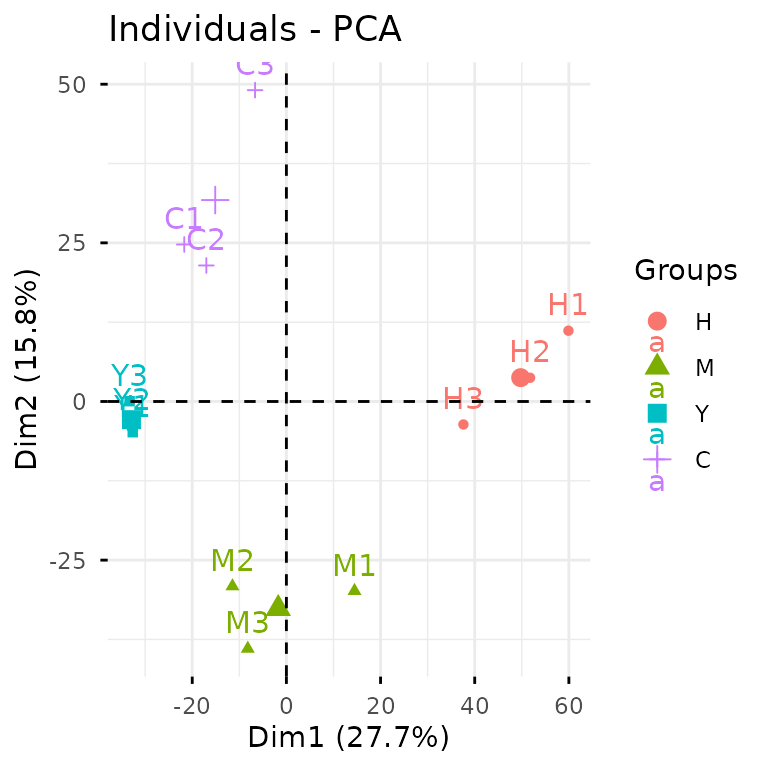
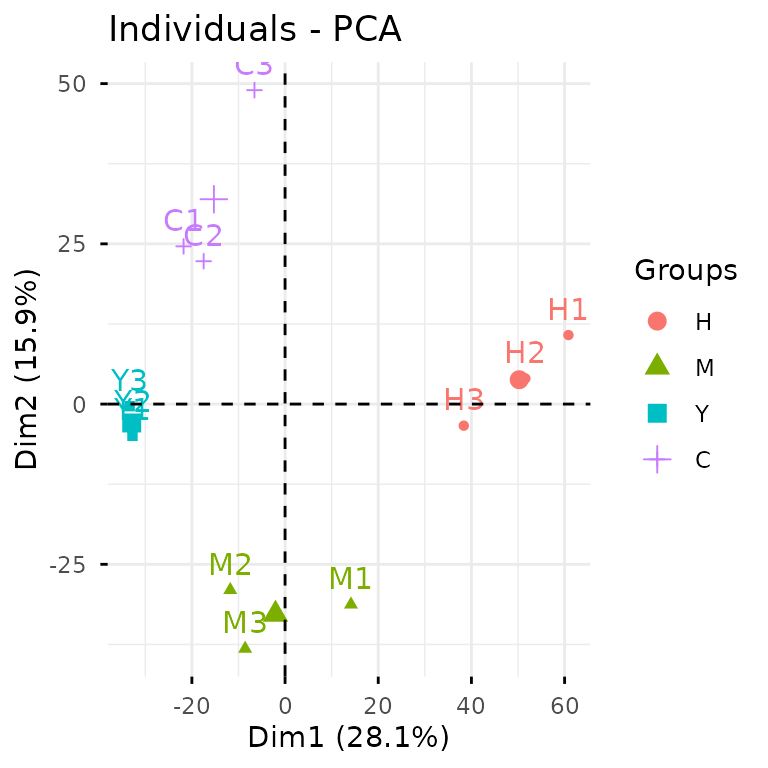
Deploying to gh-pages from @ glycoverse/glyvis@571da48f42b370f1879a0d81029ac2d63f64955e 🚀

diff --git a/dev/articles/glyvis.html b/dev/articles/glyvis.html
@@ -7,8 +7,8 @@
 <meta name="viewport" content="width=device-width, initial-scale=1, shrink-to-fit=no">
 <title>Get Started with glyvis • glyvis</title>
 <script src="../deps/jquery-3.6.0/jquery-3.6.0.min.js"></script><meta name="viewport" content="width=device-width, initial-scale=1, shrink-to-fit=no">
-<link href="../deps/bootstrap-5.3.1/bootstrap.min.css" rel="stylesheet">
-<script src="../deps/bootstrap-5.3.1/bootstrap.bundle.min.js"></script><link href="../deps/font-awesome-6.5.2/css/all.min.css" rel="stylesheet">
+<link href="../deps/bootstrap-5.3.8/bootstrap.min.css" rel="stylesheet">
+<script src="../deps/bootstrap-5.3.8/bootstrap.bundle.min.js"></script><link href="../deps/font-awesome-6.5.2/css/all.min.css" rel="stylesheet">
 <link href="../deps/font-awesome-6.5.2/css/v4-shims.min.css" rel="stylesheet">
 <script src="../deps/headroom-0.11.0/headroom.min.js"></script><script src="../deps/headroom-0.11.0/jQuery.headroom.min.js"></script><script src="../deps/bootstrap-toc-1.0.1/bootstrap-toc.min.js"></script><script src="../deps/clipboard.js-2.0.11/clipboard.min.js"></script><script src="../deps/search-1.0.0/autocomplete.jquery.min.js"></script><script src="../deps/search-1.0.0/fuse.min.js"></script><script src="../deps/search-1.0.0/mark.min.js"></script><!-- pkgdown --><script src="../pkgdown.js"></script><meta property="og:title" content="Get Started with glyvis">
 <meta name="robots" content="noindex">
@@ -94,21 +94,20 @@ streamlined preprocessing.</p>
 <span><span class="co">#&gt; </span></span>
 <span><span class="co">#&gt; ── <span style="font-weight: bold;">Normalizing data</span> ──</span></span>
 <span><span class="co">#&gt; </span></span>
-<span><span class="co">#&gt; <span style="color: #00BBBB;">ℹ</span> No QC samples found. Using default normalization method based on experiment type.</span></span>
-<span><span class="co">#&gt; <span style="color: #00BBBB;">ℹ</span> Experiment type is <span style="color: #0000BB;">"glycoproteomics"</span>. Using `normalize_median()`.</span></span>
+<span><span class="co">#&gt; <span style="color: #00BBBB;">ℹ</span> Normalization method: `normalize_median()`</span></span>
+<span><span class="co">#&gt; <span style="color: #00BBBB;">ℹ</span> Reason: default for <span style="color: #0000BB;">"glycoproteomics"</span>.</span></span>
 <span><span class="co">#&gt; <span style="color: #00BB00;">✔</span> Normalization completed.</span></span>
 <span><span class="co">#&gt; </span></span>
 <span><span class="co">#&gt; ── <span style="font-weight: bold;">Removing variables with too many missing values</span> ──</span></span>
 <span><span class="co">#&gt; </span></span>
-<span><span class="co">#&gt; <span style="color: #00BBBB;">ℹ</span> No QC samples found. Using all samples.</span></span>
 <span><span class="co">#&gt; <span style="color: #00BBBB;">ℹ</span> Applying preset <span style="color: #0000BB;">"discovery"</span>...</span></span>
 <span><span class="co">#&gt; <span style="color: #00BBBB;">ℹ</span> Total removed: <span style="color: #0000BB;">24</span> (<span style="color: #0000BB;">0.56</span>%) variables.</span></span>
 <span><span class="co">#&gt; <span style="color: #00BB00;">✔</span> Variable removal completed.</span></span>
 <span><span class="co">#&gt; </span></span>
 <span><span class="co">#&gt; ── <span style="font-weight: bold;">Imputing missing values</span> ──</span></span>
 <span><span class="co">#&gt; </span></span>
-<span><span class="co">#&gt; <span style="color: #00BBBB;">ℹ</span> No QC samples found. Using default imputation method based on sample size.</span></span>
-<span><span class="co">#&gt; <span style="color: #00BBBB;">ℹ</span> Sample size &lt;= 30, using `impute_sample_min()`.</span></span>
+<span><span class="co">#&gt; <span style="color: #00BBBB;">ℹ</span> Imputation method: `impute_min_prob()`</span></span>
+<span><span class="co">#&gt; <span style="color: #00BBBB;">ℹ</span> Reason: default for <span style="color: #0000BB;">"glycoproteomics"</span> with n_samples &lt; 30.</span></span>
 <span><span class="co">#&gt; <span style="color: #00BB00;">✔</span> Imputation completed.</span></span>
 <span><span class="co">#&gt; </span></span>
 <span><span class="co">#&gt; ── <span style="font-weight: bold;">Aggregating data</span> ──</span></span>
@@ -118,13 +117,13 @@ streamlined preprocessing.</p>
 <span><span class="co">#&gt; </span></span>
 <span><span class="co">#&gt; ── <span style="font-weight: bold;">Normalizing data again</span> ──</span></span>
 <span><span class="co">#&gt; </span></span>
-<span><span class="co">#&gt; <span style="color: #00BBBB;">ℹ</span> No QC samples found. Using default normalization method based on experiment type.</span></span>
-<span><span class="co">#&gt; <span style="color: #00BBBB;">ℹ</span> Experiment type is <span style="color: #0000BB;">"glycoproteomics"</span>. Using `normalize_median()`.</span></span>
+<span><span class="co">#&gt; <span style="color: #00BBBB;">ℹ</span> Normalization method: `normalize_median()`</span></span>
+<span><span class="co">#&gt; <span style="color: #00BBBB;">ℹ</span> Reason: default for <span style="color: #0000BB;">"glycoproteomics"</span>.</span></span>
 <span><span class="co">#&gt; <span style="color: #00BB00;">✔</span> Normalization completed.</span></span>
 <span><span class="co">#&gt; </span></span>
 <span><span class="co">#&gt; ── <span style="font-weight: bold;">Correcting batch effects</span> ──</span></span>
 <span><span class="co">#&gt; </span></span>
-<span><span class="co">#&gt; <span style="color: #00BBBB;">ℹ</span> Batch column  not found in sample_info. Skipping batch correction.</span></span>
+<span><span class="co">#&gt; <span style="color: #00BBBB;">ℹ</span> Batch column <span style="color: #00BB00;">batch</span> not found in sample_info. Skipping batch correction.</span></span>
 <span><span class="co">#&gt; <span style="color: #00BB00;">✔</span> Batch correction completed.</span></span></code></pre></div>
 <div class="section level2">
 <h2 id="the-dual-nature-of-glyvis">The Dual Nature of <code>glyvis</code><a class="anchor" aria-label="anchor" href="#the-dual-nature-of-glyvis"></a>
@@ -211,7 +210,7 @@ generate hypotheses at the speed of thought.</p>
 </div>
 
 <div class="pkgdown-footer-right">
-  <p>Site built with <a href="https://pkgdown.r-lib.org/" class="external-link">pkgdown</a> 2.2.0.</p>
+  <p>Site built with <a href="https://pkgdown.r-lib.org/" class="external-link">pkgdown</a> 2.2.1.</p>
 </div>
 
     </footer>

diff --git a/dev/index.html b/dev/index.html
@@ -7,8 +7,8 @@
 <meta name="viewport" content="width=device-width, initial-scale=1, shrink-to-fit=no">
 <title>Fast Visualization For Glycoverse • glyvis</title>
 <script src="deps/jquery-3.6.0/jquery-3.6.0.min.js"></script><meta name="viewport" content="width=device-width, initial-scale=1, shrink-to-fit=no">
-<link href="deps/bootstrap-5.3.1/bootstrap.min.css" rel="stylesheet">
-<script src="deps/bootstrap-5.3.1/bootstrap.bundle.min.js"></script><link href="deps/font-awesome-6.5.2/css/all.min.css" rel="stylesheet">
+<link href="deps/bootstrap-5.3.8/bootstrap.min.css" rel="stylesheet">
+<script src="deps/bootstrap-5.3.8/bootstrap.bundle.min.js"></script><link href="deps/font-awesome-6.5.2/css/all.min.css" rel="stylesheet">
 <link href="deps/font-awesome-6.5.2/css/v4-shims.min.css" rel="stylesheet">
 <script src="deps/headroom-0.11.0/headroom.min.js"></script><script src="deps/headroom-0.11.0/jQuery.headroom.min.js"></script><script src="deps/bootstrap-toc-1.0.1/bootstrap-toc.min.js"></script><script src="deps/clipboard.js-2.0.11/clipboard.min.js"></script><script src="deps/search-1.0.0/autocomplete.jquery.min.js"></script><script src="deps/search-1.0.0/fuse.min.js"></script><script src="deps/search-1.0.0/mark.min.js"></script><!-- pkgdown --><script src="pkgdown.js"></script><meta property="og:title" content="Fast Visualization For Glycoverse">
 <meta name="description" content="Provides a unified interface for visualizing glycomics data within the glycoverse ecosystem. Implements autoplot() methods for various data structures including statistical results from glystats, experimental data from glyexp, and glycan structures from glyrepr. Designed for rapid data exploration and quality assessment rather than publication-quality figure generation.">
@@ -206,7 +206,7 @@
 </div>
 
 <div class="pkgdown-footer-right">
-  <p>Site built with <a href="https://pkgdown.r-lib.org/" class="external-link">pkgdown</a> 2.2.0.</p>
+  <p>Site built with <a href="https://pkgdown.r-lib.org/" class="external-link">pkgdown</a> 2.2.1.</p>
 </div>
 
     </footer>

diff --git a/dev/CODE_OF_CONDUCT.html b/dev/CODE_OF_CONDUCT.html
@@ -1,5 +1,5 @@
 <!DOCTYPE html>
-<!-- Generated by pkgdown: do not edit by hand --><html lang="en"><head><meta http-equiv="Content-Type" content="text/html; charset=UTF-8"><meta charset="utf-8"><meta http-equiv="X-UA-Compatible" content="IE=edge"><meta name="viewport" content="width=device-width, initial-scale=1, shrink-to-fit=no"><title>Contributor Covenant Code of Conduct • glyvis</title><script src="deps/jquery-3.6.0/jquery-3.6.0.min.js"></script><meta name="viewport" content="width=device-width, initial-scale=1, shrink-to-fit=no"><link href="deps/bootstrap-5.3.1/bootstrap.min.css" rel="stylesheet"><script src="deps/bootstrap-5.3.1/bootstrap.bundle.min.js"></script><link href="deps/font-awesome-6.5.2/css/all.min.css" rel="stylesheet"><link href="deps/font-awesome-6.5.2/css/v4-shims.min.css" rel="stylesheet"><script src="deps/headroom-0.11.0/headroom.min.js"></script><script src="deps/headroom-0.11.0/jQuery.headroom.min.js"></script><script src="deps/bootstrap-toc-1.0.1/bootstrap-toc.min.js"></script><script src="deps/clipboard.js-2.0.11/clipboard.min.js"></script><script src="deps/search-1.0.0/autocomplete.jquery.min.js"></script><script src="deps/search-1.0.0/fuse.min.js"></script><script src="deps/search-1.0.0/mark.min.js"></script><!-- pkgdown --><script src="pkgdown.js"></script><meta property="og:title" content="Contributor Covenant Code of Conduct"><meta property="og:image" content="https://glycoverse.github.io/glyvis/logo.png"><meta name="robots" content="noindex"></head><body>
+<!-- Generated by pkgdown: do not edit by hand --><html lang="en"><head><meta http-equiv="Content-Type" content="text/html; charset=UTF-8"><meta charset="utf-8"><meta http-equiv="X-UA-Compatible" content="IE=edge"><meta name="viewport" content="width=device-width, initial-scale=1, shrink-to-fit=no"><title>Contributor Covenant Code of Conduct • glyvis</title><script src="deps/jquery-3.6.0/jquery-3.6.0.min.js"></script><meta name="viewport" content="width=device-width, initial-scale=1, shrink-to-fit=no"><link href="deps/bootstrap-5.3.8/bootstrap.min.css" rel="stylesheet"><script src="deps/bootstrap-5.3.8/bootstrap.bundle.min.js"></script><link href="deps/font-awesome-6.5.2/css/all.min.css" rel="stylesheet"><link href="deps/font-awesome-6.5.2/css/v4-shims.min.css" rel="stylesheet"><script src="deps/headroom-0.11.0/headroom.min.js"></script><script src="deps/headroom-0.11.0/jQuery.headroom.min.js"></script><script src="deps/bootstrap-toc-1.0.1/bootstrap-toc.min.js"></script><script src="deps/clipboard.js-2.0.11/clipboard.min.js"></script><script src="deps/search-1.0.0/autocomplete.jquery.min.js"></script><script src="deps/search-1.0.0/fuse.min.js"></script><script src="deps/search-1.0.0/mark.min.js"></script><!-- pkgdown --><script src="pkgdown.js"></script><meta property="og:title" content="Contributor Covenant Code of Conduct"><meta property="og:image" content="https://glycoverse.github.io/glyvis/logo.png"><meta name="robots" content="noindex"></head><body>
     <a href="#main" class="visually-hidden-focusable">Skip to contents</a>
 
 
@@ -108,7 +108,7 @@
 </div>
 
 <div class="pkgdown-footer-right">
-  <p>Site built with <a href="https://pkgdown.r-lib.org/" class="external-link">pkgdown</a> 2.2.0.</p>
+  <p>Site built with <a href="https://pkgdown.r-lib.org/" class="external-link">pkgdown</a> 2.2.1.</p>
 </div>
 
     </footer></div>

diff --git a/dev/CONTRIBUTING.html b/dev/CONTRIBUTING.html
@@ -1,5 +1,5 @@
 <!DOCTYPE html>
-<!-- Generated by pkgdown: do not edit by hand --><html lang="en"><head><meta http-equiv="Content-Type" content="text/html; charset=UTF-8"><meta charset="utf-8"><meta http-equiv="X-UA-Compatible" content="IE=edge"><meta name="viewport" content="width=device-width, initial-scale=1, shrink-to-fit=no"><title>Contributing to glyvis • glyvis</title><script src="deps/jquery-3.6.0/jquery-3.6.0.min.js"></script><meta name="viewport" content="width=device-width, initial-scale=1, shrink-to-fit=no"><link href="deps/bootstrap-5.3.1/bootstrap.min.css" rel="stylesheet"><script src="deps/bootstrap-5.3.1/bootstrap.bundle.min.js"></script><link href="deps/font-awesome-6.5.2/css/all.min.css" rel="stylesheet"><link href="deps/font-awesome-6.5.2/css/v4-shims.min.css" rel="stylesheet"><script src="deps/headroom-0.11.0/headroom.min.js"></script><script src="deps/headroom-0.11.0/jQuery.headroom.min.js"></script><script src="deps/bootstrap-toc-1.0.1/bootstrap-toc.min.js"></script><script src="deps/clipboard.js-2.0.11/clipboard.min.js"></script><script src="deps/search-1.0.0/autocomplete.jquery.min.js"></script><script src="deps/search-1.0.0/fuse.min.js"></script><script src="deps/search-1.0.0/mark.min.js"></script><!-- pkgdown --><script src="pkgdown.js"></script><meta property="og:title" content="Contributing to glyvis"><meta property="og:image" content="https://glycoverse.github.io/glyvis/logo.png"><meta name="robots" content="noindex"></head><body>
+<!-- Generated by pkgdown: do not edit by hand --><html lang="en"><head><meta http-equiv="Content-Type" content="text/html; charset=UTF-8"><meta charset="utf-8"><meta http-equiv="X-UA-Compatible" content="IE=edge"><meta name="viewport" content="width=device-width, initial-scale=1, shrink-to-fit=no"><title>Contributing to glyvis • glyvis</title><script src="deps/jquery-3.6.0/jquery-3.6.0.min.js"></script><meta name="viewport" content="width=device-width, initial-scale=1, shrink-to-fit=no"><link href="deps/bootstrap-5.3.8/bootstrap.min.css" rel="stylesheet"><script src="deps/bootstrap-5.3.8/bootstrap.bundle.min.js"></script><link href="deps/font-awesome-6.5.2/css/all.min.css" rel="stylesheet"><link href="deps/font-awesome-6.5.2/css/v4-shims.min.css" rel="stylesheet"><script src="deps/headroom-0.11.0/headroom.min.js"></script><script src="deps/headroom-0.11.0/jQuery.headroom.min.js"></script><script src="deps/bootstrap-toc-1.0.1/bootstrap-toc.min.js"></script><script src="deps/clipboard.js-2.0.11/clipboard.min.js"></script><script src="deps/search-1.0.0/autocomplete.jquery.min.js"></script><script src="deps/search-1.0.0/fuse.min.js"></script><script src="deps/search-1.0.0/mark.min.js"></script><!-- pkgdown --><script src="pkgdown.js"></script><meta property="og:title" content="Contributing to glyvis"><meta property="og:image" content="https://glycoverse.github.io/glyvis/logo.png"><meta name="robots" content="noindex"></head><body>
     <a href="#main" class="visually-hidden-focusable">Skip to contents</a>
 
 
@@ -71,7 +71,7 @@
 </div>
 
 <div class="pkgdown-footer-right">
-  <p>Site built with <a href="https://pkgdown.r-lib.org/" class="external-link">pkgdown</a> 2.2.0.</p>
+  <p>Site built with <a href="https://pkgdown.r-lib.org/" class="external-link">pkgdown</a> 2.2.1.</p>
 </div>
 
     </footer></div>

diff --git a/dev/LICENSE-text.html b/dev/LICENSE-text.html
@@ -1,5 +1,5 @@
 <!DOCTYPE html>
-<!-- Generated by pkgdown: do not edit by hand --><html lang="en"><head><meta http-equiv="Content-Type" content="text/html; charset=UTF-8"><meta charset="utf-8"><meta http-equiv="X-UA-Compatible" content="IE=edge"><meta name="viewport" content="width=device-width, initial-scale=1, shrink-to-fit=no"><title>License • glyvis</title><script src="deps/jquery-3.6.0/jquery-3.6.0.min.js"></script><meta name="viewport" content="width=device-width, initial-scale=1, shrink-to-fit=no"><link href="deps/bootstrap-5.3.1/bootstrap.min.css" rel="stylesheet"><script src="deps/bootstrap-5.3.1/bootstrap.bundle.min.js"></script><link href="deps/font-awesome-6.5.2/css/all.min.css" rel="stylesheet"><link href="deps/font-awesome-6.5.2/css/v4-shims.min.css" rel="stylesheet"><script src="deps/headroom-0.11.0/headroom.min.js"></script><script src="deps/headroom-0.11.0/jQuery.headroom.min.js"></script><script src="deps/bootstrap-toc-1.0.1/bootstrap-toc.min.js"></script><script src="deps/clipboard.js-2.0.11/clipboard.min.js"></script><script src="deps/search-1.0.0/autocomplete.jquery.min.js"></script><script src="deps/search-1.0.0/fuse.min.js"></script><script src="deps/search-1.0.0/mark.min.js"></script><!-- pkgdown --><script src="pkgdown.js"></script><meta property="og:title" content="License"><meta property="og:image" content="https://glycoverse.github.io/glyvis/logo.png"><meta name="robots" content="noindex"></head><body>
+<!-- Generated by pkgdown: do not edit by hand --><html lang="en"><head><meta http-equiv="Content-Type" content="text/html; charset=UTF-8"><meta charset="utf-8"><meta http-equiv="X-UA-Compatible" content="IE=edge"><meta name="viewport" content="width=device-width, initial-scale=1, shrink-to-fit=no"><title>License • glyvis</title><script src="deps/jquery-3.6.0/jquery-3.6.0.min.js"></script><meta name="viewport" content="width=device-width, initial-scale=1, shrink-to-fit=no"><link href="deps/bootstrap-5.3.8/bootstrap.min.css" rel="stylesheet"><script src="deps/bootstrap-5.3.8/bootstrap.bundle.min.js"></script><link href="deps/font-awesome-6.5.2/css/all.min.css" rel="stylesheet"><link href="deps/font-awesome-6.5.2/css/v4-shims.min.css" rel="stylesheet"><script src="deps/headroom-0.11.0/headroom.min.js"></script><script src="deps/headroom-0.11.0/jQuery.headroom.min.js"></script><script src="deps/bootstrap-toc-1.0.1/bootstrap-toc.min.js"></script><script src="deps/clipboard.js-2.0.11/clipboard.min.js"></script><script src="deps/search-1.0.0/autocomplete.jquery.min.js"></script><script src="deps/search-1.0.0/fuse.min.js"></script><script src="deps/search-1.0.0/mark.min.js"></script><!-- pkgdown --><script src="pkgdown.js"></script><meta property="og:title" content="License"><meta property="og:image" content="https://glycoverse.github.io/glyvis/logo.png"><meta name="robots" content="noindex"></head><body>
     <a href="#main" class="visually-hidden-focusable">Skip to contents</a>
 
 
@@ -43,7 +43,7 @@ COPYRIGHT HOLDER: glyvis authors
 </div>
 
 <div class="pkgdown-footer-right">
-  <p>Site built with <a href="https://pkgdown.r-lib.org/" class="external-link">pkgdown</a> 2.2.0.</p>
+  <p>Site built with <a href="https://pkgdown.r-lib.org/" class="external-link">pkgdown</a> 2.2.1.</p>
 </div>
 
     </footer></div>

diff --git a/dev/LICENSE.html b/dev/LICENSE.html
@@ -1,5 +1,5 @@
 <!DOCTYPE html>
-<!-- Generated by pkgdown: do not edit by hand --><html lang="en"><head><meta http-equiv="Content-Type" content="text/html; charset=UTF-8"><meta charset="utf-8"><meta http-equiv="X-UA-Compatible" content="IE=edge"><meta name="viewport" content="width=device-width, initial-scale=1, shrink-to-fit=no"><title>MIT License • glyvis</title><script src="deps/jquery-3.6.0/jquery-3.6.0.min.js"></script><meta name="viewport" content="width=device-width, initial-scale=1, shrink-to-fit=no"><link href="deps/bootstrap-5.3.1/bootstrap.min.css" rel="stylesheet"><script src="deps/bootstrap-5.3.1/bootstrap.bundle.min.js"></script><link href="deps/font-awesome-6.5.2/css/all.min.css" rel="stylesheet"><link href="deps/font-awesome-6.5.2/css/v4-shims.min.css" rel="stylesheet"><script src="deps/headroom-0.11.0/headroom.min.js"></script><script src="deps/headroom-0.11.0/jQuery.headroom.min.js"></script><script src="deps/bootstrap-toc-1.0.1/bootstrap-toc.min.js"></script><script src="deps/clipboard.js-2.0.11/clipboard.min.js"></script><script src="deps/search-1.0.0/autocomplete.jquery.min.js"></script><script src="deps/search-1.0.0/fuse.min.js"></script><script src="deps/search-1.0.0/mark.min.js"></script><!-- pkgdown --><script src="pkgdown.js"></script><meta property="og:title" content="MIT License"><meta property="og:image" content="https://glycoverse.github.io/glyvis/logo.png"><meta name="robots" content="noindex"></head><body>
+<!-- Generated by pkgdown: do not edit by hand --><html lang="en"><head><meta http-equiv="Content-Type" content="text/html; charset=UTF-8"><meta charset="utf-8"><meta http-equiv="X-UA-Compatible" content="IE=edge"><meta name="viewport" content="width=device-width, initial-scale=1, shrink-to-fit=no"><title>MIT License • glyvis</title><script src="deps/jquery-3.6.0/jquery-3.6.0.min.js"></script><meta name="viewport" content="width=device-width, initial-scale=1, shrink-to-fit=no"><link href="deps/bootstrap-5.3.8/bootstrap.min.css" rel="stylesheet"><script src="deps/bootstrap-5.3.8/bootstrap.bundle.min.js"></script><link href="deps/font-awesome-6.5.2/css/all.min.css" rel="stylesheet"><link href="deps/font-awesome-6.5.2/css/v4-shims.min.css" rel="stylesheet"><script src="deps/headroom-0.11.0/headroom.min.js"></script><script src="deps/headroom-0.11.0/jQuery.headroom.min.js"></script><script src="deps/bootstrap-toc-1.0.1/bootstrap-toc.min.js"></script><script src="deps/clipboard.js-2.0.11/clipboard.min.js"></script><script src="deps/search-1.0.0/autocomplete.jquery.min.js"></script><script src="deps/search-1.0.0/fuse.min.js"></script><script src="deps/search-1.0.0/mark.min.js"></script><!-- pkgdown --><script src="pkgdown.js"></script><meta property="og:title" content="MIT License"><meta property="og:image" content="https://glycoverse.github.io/glyvis/logo.png"><meta name="robots" content="noindex"></head><body>
     <a href="#main" class="visually-hidden-focusable">Skip to contents</a>
 
 
@@ -47,7 +47,7 @@
 </div>
 
 <div class="pkgdown-footer-right">
-  <p>Site built with <a href="https://pkgdown.r-lib.org/" class="external-link">pkgdown</a> 2.2.0.</p>
+  <p>Site built with <a href="https://pkgdown.r-lib.org/" class="external-link">pkgdown</a> 2.2.1.</p>
 </div>
 
     </footer></div>

diff --git a/dev/SUPPORT.html b/dev/SUPPORT.html
@@ -1,5 +1,5 @@
 <!DOCTYPE html>
-<!-- Generated by pkgdown: do not edit by hand --><html lang="en"><head><meta http-equiv="Content-Type" content="text/html; charset=UTF-8"><meta charset="utf-8"><meta http-equiv="X-UA-Compatible" content="IE=edge"><meta name="viewport" content="width=device-width, initial-scale=1, shrink-to-fit=no"><title>Getting help with glyvis • glyvis</title><script src="deps/jquery-3.6.0/jquery-3.6.0.min.js"></script><meta name="viewport" content="width=device-width, initial-scale=1, shrink-to-fit=no"><link href="deps/bootstrap-5.3.1/bootstrap.min.css" rel="stylesheet"><script src="deps/bootstrap-5.3.1/bootstrap.bundle.min.js"></script><link href="deps/font-awesome-6.5.2/css/all.min.css" rel="stylesheet"><link href="deps/font-awesome-6.5.2/css/v4-shims.min.css" rel="stylesheet"><script src="deps/headroom-0.11.0/headroom.min.js"></script><script src="deps/headroom-0.11.0/jQuery.headroom.min.js"></script><script src="deps/bootstrap-toc-1.0.1/bootstrap-toc.min.js"></script><script src="deps/clipboard.js-2.0.11/clipboard.min.js"></script><script src="deps/search-1.0.0/autocomplete.jquery.min.js"></script><script src="deps/search-1.0.0/fuse.min.js"></script><script src="deps/search-1.0.0/mark.min.js"></script><!-- pkgdown --><script src="pkgdown.js"></script><meta property="og:title" content="Getting help with glyvis"><meta property="og:image" content="https://glycoverse.github.io/glyvis/logo.png"><meta name="robots" content="noindex"></head><body>
+<!-- Generated by pkgdown: do not edit by hand --><html lang="en"><head><meta http-equiv="Content-Type" content="text/html; charset=UTF-8"><meta charset="utf-8"><meta http-equiv="X-UA-Compatible" content="IE=edge"><meta name="viewport" content="width=device-width, initial-scale=1, shrink-to-fit=no"><title>Getting help with glyvis • glyvis</title><script src="deps/jquery-3.6.0/jquery-3.6.0.min.js"></script><meta name="viewport" content="width=device-width, initial-scale=1, shrink-to-fit=no"><link href="deps/bootstrap-5.3.8/bootstrap.min.css" rel="stylesheet"><script src="deps/bootstrap-5.3.8/bootstrap.bundle.min.js"></script><link href="deps/font-awesome-6.5.2/css/all.min.css" rel="stylesheet"><link href="deps/font-awesome-6.5.2/css/v4-shims.min.css" rel="stylesheet"><script src="deps/headroom-0.11.0/headroom.min.js"></script><script src="deps/headroom-0.11.0/jQuery.headroom.min.js"></script><script src="deps/bootstrap-toc-1.0.1/bootstrap-toc.min.js"></script><script src="deps/clipboard.js-2.0.11/clipboard.min.js"></script><script src="deps/search-1.0.0/autocomplete.jquery.min.js"></script><script src="deps/search-1.0.0/fuse.min.js"></script><script src="deps/search-1.0.0/mark.min.js"></script><!-- pkgdown --><script src="pkgdown.js"></script><meta property="og:title" content="Getting help with glyvis"><meta property="og:image" content="https://glycoverse.github.io/glyvis/logo.png"><meta name="robots" content="noindex"></head><body>
     <a href="#main" class="visually-hidden-focusable">Skip to contents</a>
 
 
@@ -61,7 +61,7 @@
 </div>
 
 <div class="pkgdown-footer-right">
-  <p>Site built with <a href="https://pkgdown.r-lib.org/" class="external-link">pkgdown</a> 2.2.0.</p>
+  <p>Site built with <a href="https://pkgdown.r-lib.org/" class="external-link">pkgdown</a> 2.2.1.</p>
 </div>
 
     </footer></div>

diff --git a/dev/articles/index.html b/dev/articles/index.html
@@ -1,5 +1,5 @@
 <!DOCTYPE html>
-<!-- Generated by pkgdown: do not edit by hand --><html lang="en"><head><meta http-equiv="Content-Type" content="text/html; charset=UTF-8"><meta charset="utf-8"><meta http-equiv="X-UA-Compatible" content="IE=edge"><meta name="viewport" content="width=device-width, initial-scale=1, shrink-to-fit=no"><title>Articles • glyvis</title><script src="../deps/jquery-3.6.0/jquery-3.6.0.min.js"></script><meta name="viewport" content="width=device-width, initial-scale=1, shrink-to-fit=no"><link href="../deps/bootstrap-5.3.1/bootstrap.min.css" rel="stylesheet"><script src="../deps/bootstrap-5.3.1/bootstrap.bundle.min.js"></script><link href="../deps/font-awesome-6.5.2/css/all.min.css" rel="stylesheet"><link href="../deps/font-awesome-6.5.2/css/v4-shims.min.css" rel="stylesheet"><script src="../deps/headroom-0.11.0/headroom.min.js"></script><script src="../deps/headroom-0.11.0/jQuery.headroom.min.js"></script><script src="../deps/bootstrap-toc-1.0.1/bootstrap-toc.min.js"></script><script src="../deps/clipboard.js-2.0.11/clipboard.min.js"></script><script src="../deps/search-1.0.0/autocomplete.jquery.min.js"></script><script src="../deps/search-1.0.0/fuse.min.js"></script><script src="../deps/search-1.0.0/mark.min.js"></script><!-- pkgdown --><script src="../pkgdown.js"></script><meta property="og:title" content="Articles"><meta property="og:image" content="https://glycoverse.github.io/glyvis/logo.png"><meta name="robots" content="noindex"></head><body>
+<!-- Generated by pkgdown: do not edit by hand --><html lang="en"><head><meta http-equiv="Content-Type" content="text/html; charset=UTF-8"><meta charset="utf-8"><meta http-equiv="X-UA-Compatible" content="IE=edge"><meta name="viewport" content="width=device-width, initial-scale=1, shrink-to-fit=no"><title>Articles • glyvis</title><script src="../deps/jquery-3.6.0/jquery-3.6.0.min.js"></script><meta name="viewport" content="width=device-width, initial-scale=1, shrink-to-fit=no"><link href="../deps/bootstrap-5.3.8/bootstrap.min.css" rel="stylesheet"><script src="../deps/bootstrap-5.3.8/bootstrap.bundle.min.js"></script><link href="../deps/font-awesome-6.5.2/css/all.min.css" rel="stylesheet"><link href="../deps/font-awesome-6.5.2/css/v4-shims.min.css" rel="stylesheet"><script src="../deps/headroom-0.11.0/headroom.min.js"></script><script src="../deps/headroom-0.11.0/jQuery.headroom.min.js"></script><script src="../deps/bootstrap-toc-1.0.1/bootstrap-toc.min.js"></script><script src="../deps/clipboard.js-2.0.11/clipboard.min.js"></script><script src="../deps/search-1.0.0/autocomplete.jquery.min.js"></script><script src="../deps/search-1.0.0/fuse.min.js"></script><script src="../deps/search-1.0.0/mark.min.js"></script><!-- pkgdown --><script src="../pkgdown.js"></script><meta property="og:title" content="Articles"><meta property="og:image" content="https://glycoverse.github.io/glyvis/logo.png"><meta name="robots" content="noindex"></head><body>
     <a href="#main" class="visually-hidden-focusable">Skip to contents</a>
 
 
@@ -45,7 +45,7 @@
 </div>
 
 <div class="pkgdown-footer-right">
-  <p>Site built with <a href="https://pkgdown.r-lib.org/" class="external-link">pkgdown</a> 2.2.0.</p>
+  <p>Site built with <a href="https://pkgdown.r-lib.org/" class="external-link">pkgdown</a> 2.2.1.</p>
 </div>
 
     </footer></div>

diff --git a/dev/authors.html b/dev/authors.html
@@ -1,5 +1,5 @@
 <!DOCTYPE html>
-<!-- Generated by pkgdown: do not edit by hand --><html lang="en"><head><meta http-equiv="Content-Type" content="text/html; charset=UTF-8"><meta charset="utf-8"><meta http-equiv="X-UA-Compatible" content="IE=edge"><meta name="viewport" content="width=device-width, initial-scale=1, shrink-to-fit=no"><title>Authors and Citation • glyvis</title><script src="deps/jquery-3.6.0/jquery-3.6.0.min.js"></script><meta name="viewport" content="width=device-width, initial-scale=1, shrink-to-fit=no"><link href="deps/bootstrap-5.3.1/bootstrap.min.css" rel="stylesheet"><script src="deps/bootstrap-5.3.1/bootstrap.bundle.min.js"></script><link href="deps/font-awesome-6.5.2/css/all.min.css" rel="stylesheet"><link href="deps/font-awesome-6.5.2/css/v4-shims.min.css" rel="stylesheet"><script src="deps/headroom-0.11.0/headroom.min.js"></script><script src="deps/headroom-0.11.0/jQuery.headroom.min.js"></script><script src="deps/bootstrap-toc-1.0.1/bootstrap-toc.min.js"></script><script src="deps/clipboard.js-2.0.11/clipboard.min.js"></script><script src="deps/search-1.0.0/autocomplete.jquery.min.js"></script><script src="deps/search-1.0.0/fuse.min.js"></script><script src="deps/search-1.0.0/mark.min.js"></script><!-- pkgdown --><script src="pkgdown.js"></script><meta property="og:title" content="Authors and Citation"><meta property="og:image" content="https://glycoverse.github.io/glyvis/logo.png"><meta name="robots" content="noindex"></head><body>
+<!-- Generated by pkgdown: do not edit by hand --><html lang="en"><head><meta http-equiv="Content-Type" content="text/html; charset=UTF-8"><meta charset="utf-8"><meta http-equiv="X-UA-Compatible" content="IE=edge"><meta name="viewport" content="width=device-width, initial-scale=1, shrink-to-fit=no"><title>Authors and Citation • glyvis</title><script src="deps/jquery-3.6.0/jquery-3.6.0.min.js"></script><meta name="viewport" content="width=device-width, initial-scale=1, shrink-to-fit=no"><link href="deps/bootstrap-5.3.8/bootstrap.min.css" rel="stylesheet"><script src="deps/bootstrap-5.3.8/bootstrap.bundle.min.js"></script><link href="deps/font-awesome-6.5.2/css/all.min.css" rel="stylesheet"><link href="deps/font-awesome-6.5.2/css/v4-shims.min.css" rel="stylesheet"><script src="deps/headroom-0.11.0/headroom.min.js"></script><script src="deps/headroom-0.11.0/jQuery.headroom.min.js"></script><script src="deps/bootstrap-toc-1.0.1/bootstrap-toc.min.js"></script><script src="deps/clipboard.js-2.0.11/clipboard.min.js"></script><script src="deps/search-1.0.0/autocomplete.jquery.min.js"></script><script src="deps/search-1.0.0/fuse.min.js"></script><script src="deps/search-1.0.0/mark.min.js"></script><!-- pkgdown --><script src="pkgdown.js"></script><meta property="og:title" content="Authors and Citation"><meta property="og:image" content="https://glycoverse.github.io/glyvis/logo.png"><meta name="robots" content="noindex"></head><body>
     <a href="#main" class="visually-hidden-focusable">Skip to contents</a>
 
 
@@ -65,7 +65,7 @@ R package version 0.6.0.9000, <a href="https://glycoverse.github.io/glyvis/">htt
 </div>
 
 <div class="pkgdown-footer-right">
-  <p>Site built with <a href="https://pkgdown.r-lib.org/" class="external-link">pkgdown</a> 2.2.0.</p>
+  <p>Site built with <a href="https://pkgdown.r-lib.org/" class="external-link">pkgdown</a> 2.2.1.</p>
 </div>
 
     </footer></div>

diff --git a/dev/news/index.html b/dev/news/index.html
@@ -1,5 +1,5 @@
 <!DOCTYPE html>
-<!-- Generated by pkgdown: do not edit by hand --><html lang="en"><head><meta http-equiv="Content-Type" content="text/html; charset=UTF-8"><meta charset="utf-8"><meta http-equiv="X-UA-Compatible" content="IE=edge"><meta name="viewport" content="width=device-width, initial-scale=1, shrink-to-fit=no"><title>Changelog • glyvis</title><script src="../deps/jquery-3.6.0/jquery-3.6.0.min.js"></script><meta name="viewport" content="width=device-width, initial-scale=1, shrink-to-fit=no"><link href="../deps/bootstrap-5.3.1/bootstrap.min.css" rel="stylesheet"><script src="../deps/bootstrap-5.3.1/bootstrap.bundle.min.js"></script><link href="../deps/font-awesome-6.5.2/css/all.min.css" rel="stylesheet"><link href="../deps/font-awesome-6.5.2/css/v4-shims.min.css" rel="stylesheet"><script src="../deps/headroom-0.11.0/headroom.min.js"></script><script src="../deps/headroom-0.11.0/jQuery.headroom.min.js"></script><script src="../deps/bootstrap-toc-1.0.1/bootstrap-toc.min.js"></script><script src="../deps/clipboard.js-2.0.11/clipboard.min.js"></script><script src="../deps/search-1.0.0/autocomplete.jquery.min.js"></script><script src="../deps/search-1.0.0/fuse.min.js"></script><script src="../deps/search-1.0.0/mark.min.js"></script><!-- pkgdown --><script src="../pkgdown.js"></script><meta property="og:title" content="Changelog"><meta property="og:image" content="https://glycoverse.github.io/glyvis/logo.png"><meta name="robots" content="noindex"></head><body>
+<!-- Generated by pkgdown: do not edit by hand --><html lang="en"><head><meta http-equiv="Content-Type" content="text/html; charset=UTF-8"><meta charset="utf-8"><meta http-equiv="X-UA-Compatible" content="IE=edge"><meta name="viewport" content="width=device-width, initial-scale=1, shrink-to-fit=no"><title>Changelog • glyvis</title><script src="../deps/jquery-3.6.0/jquery-3.6.0.min.js"></script><meta name="viewport" content="width=device-width, initial-scale=1, shrink-to-fit=no"><link href="../deps/bootstrap-5.3.8/bootstrap.min.css" rel="stylesheet"><script src="../deps/bootstrap-5.3.8/bootstrap.bundle.min.js"></script><link href="../deps/font-awesome-6.5.2/css/all.min.css" rel="stylesheet"><link href="../deps/font-awesome-6.5.2/css/v4-shims.min.css" rel="stylesheet"><script src="../deps/headroom-0.11.0/headroom.min.js"></script><script src="../deps/headroom-0.11.0/jQuery.headroom.min.js"></script><script src="../deps/bootstrap-toc-1.0.1/bootstrap-toc.min.js"></script><script src="../deps/clipboard.js-2.0.11/clipboard.min.js"></script><script src="../deps/search-1.0.0/autocomplete.jquery.min.js"></script><script src="../deps/search-1.0.0/fuse.min.js"></script><script src="../deps/search-1.0.0/mark.min.js"></script><!-- pkgdown --><script src="../pkgdown.js"></script><meta property="og:title" content="Changelog"><meta property="og:image" content="https://glycoverse.github.io/glyvis/logo.png"><meta name="robots" content="noindex"></head><body>
     <a href="#main" class="visually-hidden-focusable">Skip to contents</a>
 
 
@@ -195,7 +195,7 @@
 </div>
 
 <div class="pkgdown-footer-right">
-  <p>Site built with <a href="https://pkgdown.r-lib.org/" class="external-link">pkgdown</a> 2.2.0.</p>
+  <p>Site built with <a href="https://pkgdown.r-lib.org/" class="external-link">pkgdown</a> 2.2.1.</p>
 </div>
 
     </footer></div>

diff --git a/dev/reference/autoplot.glyexp_experiment.html b/dev/reference/autoplot.glyexp_experiment.html
@@ -1,5 +1,5 @@
 <!DOCTYPE html>
-<!-- Generated by pkgdown: do not edit by hand --><html lang="en"><head><meta http-equiv="Content-Type" content="text/html; charset=UTF-8"><meta charset="utf-8"><meta http-equiv="X-UA-Compatible" content="IE=edge"><meta name="viewport" content="width=device-width, initial-scale=1, shrink-to-fit=no"><title>Plots for Experiments — autoplot.glyexp_experiment • glyvis</title><script src="../deps/jquery-3.6.0/jquery-3.6.0.min.js"></script><meta name="viewport" content="width=device-width, initial-scale=1, shrink-to-fit=no"><link href="../deps/bootstrap-5.3.1/bootstrap.min.css" rel="stylesheet"><script src="../deps/bootstrap-5.3.1/bootstrap.bundle.min.js"></script><link href="../deps/font-awesome-6.5.2/css/all.min.css" rel="stylesheet"><link href="../deps/font-awesome-6.5.2/css/v4-shims.min.css" rel="stylesheet"><script src="../deps/headroom-0.11.0/headroom.min.js"></script><script src="../deps/headroom-0.11.0/jQuery.headroom.min.js"></script><script src="../deps/bootstrap-toc-1.0.1/bootstrap-toc.min.js"></script><script src="../deps/clipboard.js-2.0.11/clipboard.min.js"></script><script src="../deps/search-1.0.0/autocomplete.jquery.min.js"></script><script src="../deps/search-1.0.0/fuse.min.js"></script><script src="../deps/search-1.0.0/mark.min.js"></script><!-- pkgdown --><script src="../pkgdown.js"></script><meta property="og:title" content="Plots for Experiments — autoplot.glyexp_experiment"><meta name="description" content='Visualization for glyexp::experiment() (glyexp_experiment object).
+<!-- Generated by pkgdown: do not edit by hand --><html lang="en"><head><meta http-equiv="Content-Type" content="text/html; charset=UTF-8"><meta charset="utf-8"><meta http-equiv="X-UA-Compatible" content="IE=edge"><meta name="viewport" content="width=device-width, initial-scale=1, shrink-to-fit=no"><title>Plots for Experiments — autoplot.glyexp_experiment • glyvis</title><script src="../deps/jquery-3.6.0/jquery-3.6.0.min.js"></script><meta name="viewport" content="width=device-width, initial-scale=1, shrink-to-fit=no"><link href="../deps/bootstrap-5.3.8/bootstrap.min.css" rel="stylesheet"><script src="../deps/bootstrap-5.3.8/bootstrap.bundle.min.js"></script><link href="../deps/font-awesome-6.5.2/css/all.min.css" rel="stylesheet"><link href="../deps/font-awesome-6.5.2/css/v4-shims.min.css" rel="stylesheet"><script src="../deps/headroom-0.11.0/headroom.min.js"></script><script src="../deps/headroom-0.11.0/jQuery.headroom.min.js"></script><script src="../deps/bootstrap-toc-1.0.1/bootstrap-toc.min.js"></script><script src="../deps/clipboard.js-2.0.11/clipboard.min.js"></script><script src="../deps/search-1.0.0/autocomplete.jquery.min.js"></script><script src="../deps/search-1.0.0/fuse.min.js"></script><script src="../deps/search-1.0.0/mark.min.js"></script><!-- pkgdown --><script src="../pkgdown.js"></script><meta property="og:title" content="Plots for Experiments — autoplot.glyexp_experiment"><meta name="description" content='Visualization for glyexp::experiment() (glyexp_experiment object).
 Possible types of plots:
 "heatmap": (Default) Expression heatmap with columns as samples and rows as variables.
 "boxplot": Boxplot of expression values for each sample.
@@ -90,7 +90,7 @@ Only applicable to "boxplot".</p></dd>
 </div>
 
 <div class="pkgdown-footer-right">
-  <p>Site built with <a href="https://pkgdown.r-lib.org/" class="external-link">pkgdown</a> 2.2.0.</p>
+  <p>Site built with <a href="https://pkgdown.r-lib.org/" class="external-link">pkgdown</a> 2.2.1.</p>
 </div>
 
     </footer></div>

diff --git a/dev/reference/autoplot.glystats_anova_res.html b/dev/reference/autoplot.glystats_anova_res.html
@@ -1,5 +1,5 @@
 <!DOCTYPE html>
-<!-- Generated by pkgdown: do not edit by hand --><html lang="en"><head><meta http-equiv="Content-Type" content="text/html; charset=UTF-8"><meta charset="utf-8"><meta http-equiv="X-UA-Compatible" content="IE=edge"><meta name="viewport" content="width=device-width, initial-scale=1, shrink-to-fit=no"><title>Plots for Multi-Group Differential Expression Analysis (DEA) — autoplot.glystats_anova_res • glyvis</title><script src="../deps/jquery-3.6.0/jquery-3.6.0.min.js"></script><meta name="viewport" content="width=device-width, initial-scale=1, shrink-to-fit=no"><link href="../deps/bootstrap-5.3.1/bootstrap.min.css" rel="stylesheet"><script src="../deps/bootstrap-5.3.1/bootstrap.bundle.min.js"></script><link href="../deps/font-awesome-6.5.2/css/all.min.css" rel="stylesheet"><link href="../deps/font-awesome-6.5.2/css/v4-shims.min.css" rel="stylesheet"><script src="../deps/headroom-0.11.0/headroom.min.js"></script><script src="../deps/headroom-0.11.0/jQuery.headroom.min.js"></script><script src="../deps/bootstrap-toc-1.0.1/bootstrap-toc.min.js"></script><script src="../deps/clipboard.js-2.0.11/clipboard.min.js"></script><script src="../deps/search-1.0.0/autocomplete.jquery.min.js"></script><script src="../deps/search-1.0.0/fuse.min.js"></script><script src="../deps/search-1.0.0/mark.min.js"></script><!-- pkgdown --><script src="../pkgdown.js"></script><meta property="og:title" content="Plots for Multi-Group Differential Expression Analysis (DEA) — autoplot.glystats_anova_res"><meta name="description" content="Visualization for glystats_anova_res and glystats_kruskal_res.
+<!-- Generated by pkgdown: do not edit by hand --><html lang="en"><head><meta http-equiv="Content-Type" content="text/html; charset=UTF-8"><meta charset="utf-8"><meta http-equiv="X-UA-Compatible" content="IE=edge"><meta name="viewport" content="width=device-width, initial-scale=1, shrink-to-fit=no"><title>Plots for Multi-Group Differential Expression Analysis (DEA) — autoplot.glystats_anova_res • glyvis</title><script src="../deps/jquery-3.6.0/jquery-3.6.0.min.js"></script><meta name="viewport" content="width=device-width, initial-scale=1, shrink-to-fit=no"><link href="../deps/bootstrap-5.3.8/bootstrap.min.css" rel="stylesheet"><script src="../deps/bootstrap-5.3.8/bootstrap.bundle.min.js"></script><link href="../deps/font-awesome-6.5.2/css/all.min.css" rel="stylesheet"><link href="../deps/font-awesome-6.5.2/css/v4-shims.min.css" rel="stylesheet"><script src="../deps/headroom-0.11.0/headroom.min.js"></script><script src="../deps/headroom-0.11.0/jQuery.headroom.min.js"></script><script src="../deps/bootstrap-toc-1.0.1/bootstrap-toc.min.js"></script><script src="../deps/clipboard.js-2.0.11/clipboard.min.js"></script><script src="../deps/search-1.0.0/autocomplete.jquery.min.js"></script><script src="../deps/search-1.0.0/fuse.min.js"></script><script src="../deps/search-1.0.0/mark.min.js"></script><!-- pkgdown --><script src="../pkgdown.js"></script><meta property="og:title" content="Plots for Multi-Group Differential Expression Analysis (DEA) — autoplot.glystats_anova_res"><meta name="description" content="Visualization for glystats_anova_res and glystats_kruskal_res.
 Draw a dotchart for p-values."><meta property="og:description" content="Visualization for glystats_anova_res and glystats_kruskal_res.
 Draw a dotchart for p-values."><meta property="og:image" content="https://glycoverse.github.io/glyvis/logo.png"><meta name="robots" content="noindex"></head><body>
     <a href="#main" class="visually-hidden-focusable">Skip to contents</a>
@@ -83,7 +83,7 @@ Can also be "p_val" (raw p-values without multiple testing correction).</p></dd>
 </div>
 
 <div class="pkgdown-footer-right">
-  <p>Site built with <a href="https://pkgdown.r-lib.org/" class="external-link">pkgdown</a> 2.2.0.</p>
+  <p>Site built with <a href="https://pkgdown.r-lib.org/" class="external-link">pkgdown</a> 2.2.1.</p>
 </div>
 
     </footer></div>